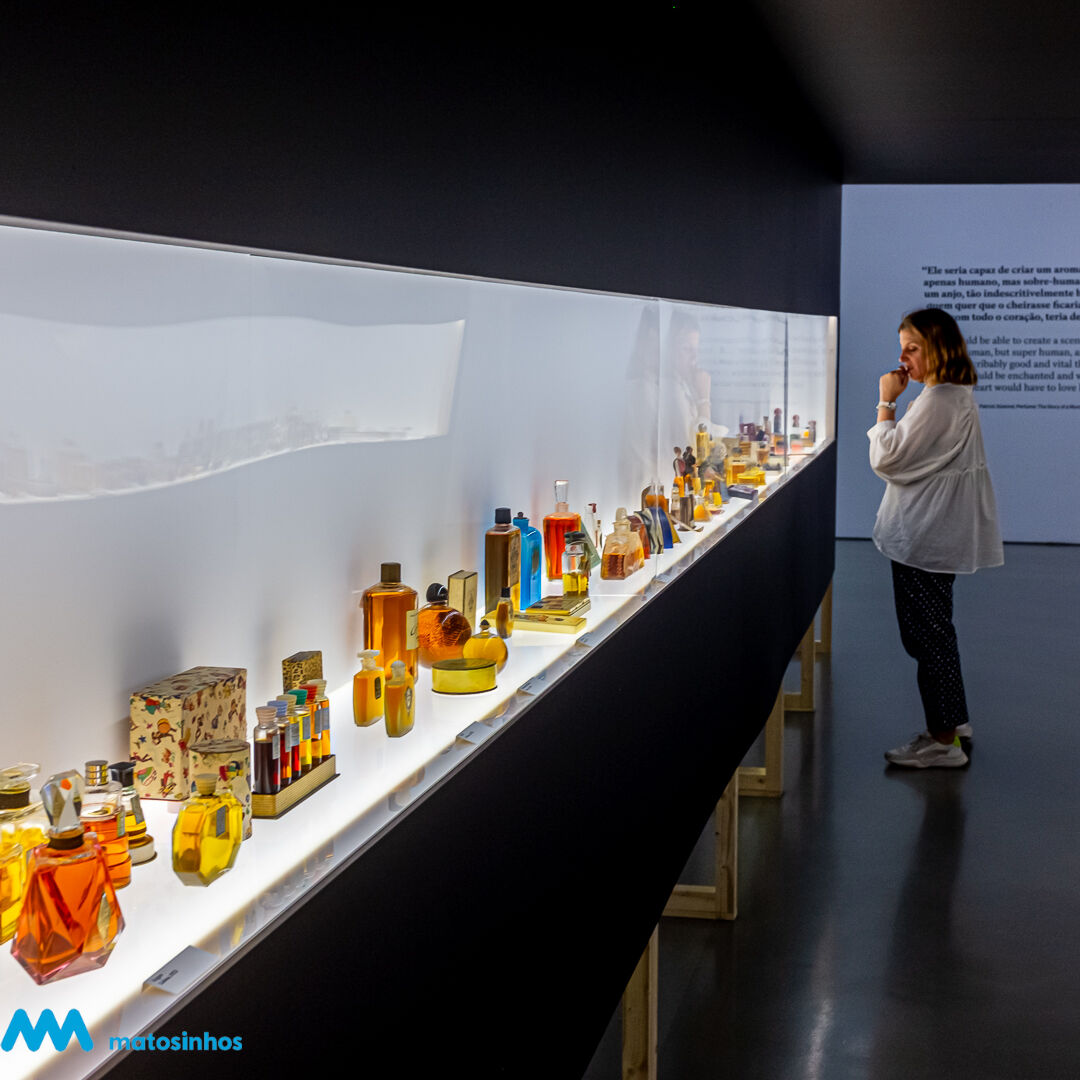
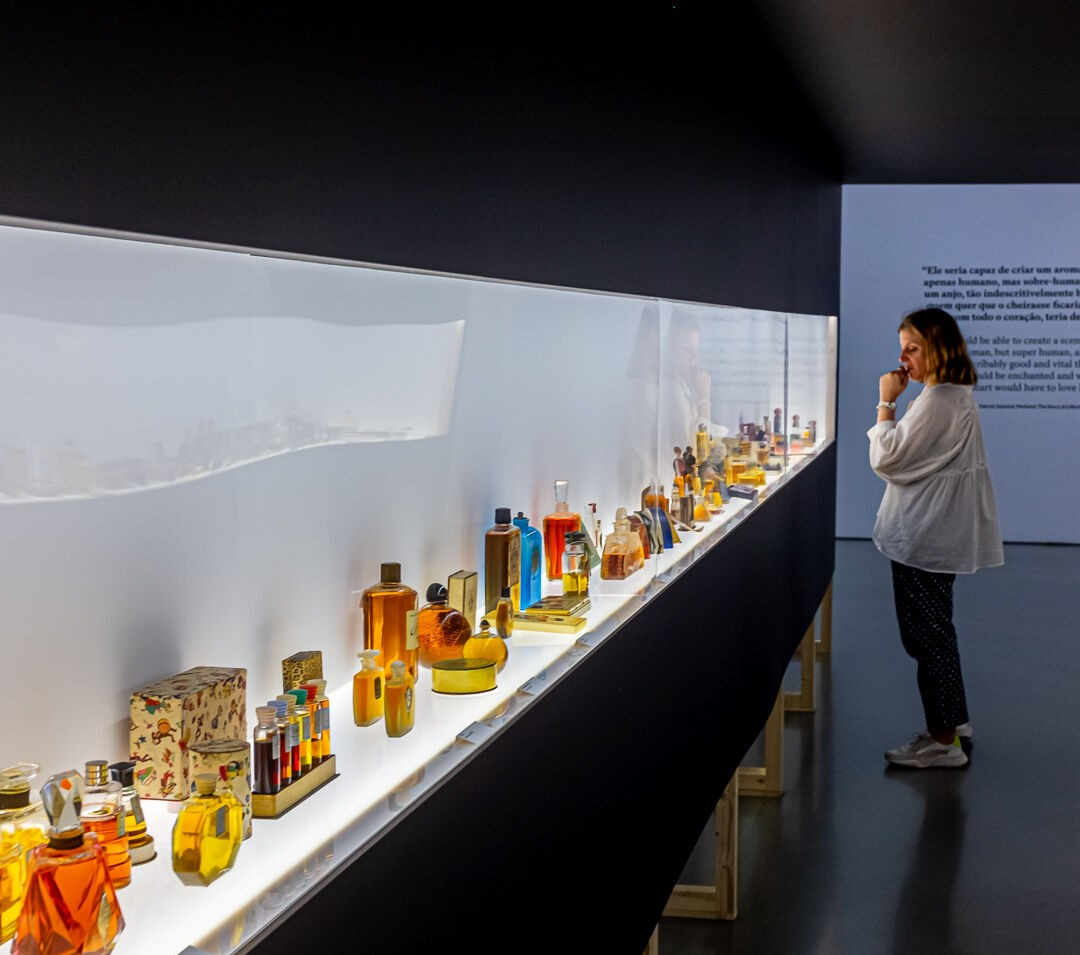
cambios

diff --git a/css/style.css b/css/style.css
@@ -416,13 +416,6 @@ footer {
   text-transform: uppercase; /* convierte a mayúsculas */
 }
 
-
-
-<<<<<<< Updated upstream
-
-
-=======
->>>>>>> Stashed changes
 /* =========================================
    DETALLE DEL PRODUCTO
 ========================================= */
@@ -576,41 +569,24 @@ footer {
     text-decoration: underline;
 }
 
-
-
-
-
-
-
-
-
-
-
-
-
-
-
-
-
-
-
-
 /* =========================================
    CONTACTO
 ========================================= */
+
 /* Banner Contacto */
 .banner-contacto {
   position: relative;
   width: 100%;
-  height: 300px;
-  background: url('img/banner_contacto.jpg') no-repeat center center/cover;
+  height: 400px;
+  background: url('../img/banner_contacto.jpg') no-repeat center center/cover;
   display: flex;
   align-items: center;
   justify-content: center;
 }
 
+/* Recuadro transparente con texto encima */
 .banner-contacto .banner-texto {
-  background: rgba(0,0,0,0.6);
+  background: rgba(0,0,0,0.5); /* negro semitransparente */
   color: #fff;
   padding: 20px 40px;
   border-radius: 10px;
@@ -619,7 +595,7 @@ footer {
 
 .banner-contacto h1 {
   font-size: 2.5em;
-  color: #d4af37;
+  color: #d4af37; /* dorado */
 }
 
 .banner-contacto p {
@@ -630,13 +606,16 @@ footer {
 /* Formulario Contacto */
 .contacto-container {
   max-width: 600px;
-  margin: 40px auto;
+  margin: 40px auto; /* centrado horizontal y margen superior */
   padding: 20px;
+  background: #fff; /* fondo blanco para dar formalidad */
+  border-radius: 10px;
+  box-shadow: 0 4px 12px rgba(0,0,0,0.1); /* sombra elegante */
 }
 
 .contacto-form {
   display: flex;
-  flex-direction: column;
+  flex-direction: column; /* asegura que los campos vayan hacia abajo */
   gap: 15px;
 }
 
@@ -656,12 +635,12 @@ footer {
 
 .contacto-form input:focus,
 .contacto-form textarea:focus {
-  border-color: #d4af37;
+  border-color: #d4af37; /* dorado al enfocar */
   outline: none;
 }
 
 .contacto-form button {
-  background-color: #d4af37;
+  background-color: #d4af37; /* dorado */
   color: #fff;
   border: none;
   padding: 12px;
@@ -672,5 +651,36 @@ footer {
 }
 
 .contacto-form button:hover {
-  background-color: #000;
+  background-color: #000; /* negro al pasar el mouse */
+}
+
+/* =========================================
+   BLOG INDIVIDUAL
+========================================= */
+.blog-page {
+  max-width: 800px;
+  margin: 40px auto;
+  padding: 20px;
+  background: #fff;
+  border-radius: 10px;
+  box-shadow: 0 4px 12px rgba(0,0,0,0.1);
+}
+
+.blog-page h1 {
+  color: #d4af37;
+  margin-bottom: 20px;
+  text-align: center;
+}
+
+.blog-page img {
+  width: 100%;
+  border-radius: 10px;
+  margin-bottom: 20px;
+}
+
+.blog-page p {
+  line-height: 1.8;
+  color: #444;
+  margin-bottom: 15px;
+  text-align: justify;
 }

diff --git a/blog2.html b/blog2.html
@@ -1,0 +1,50 @@
+<!DOCTYPE html>
+<html lang="es">
+<head>
+  <meta charset="UTF-8">
+  <meta name="viewport" content="width=device-width, initial-scale=1.0">
+  <title>Consejos para elegir tu fragancia - AURA Perfumes</title>
+  <link rel="stylesheet" href="css/style.css">
+</head>
+<body>
+  <!-- Menú -->
+  <header class="menu">
+    <div class="logo">
+      <a href="index.html"><img src="img/logo_perfume_sin_fondo.png" alt="Logo"></a>
+    </div>
+    <nav class="nav">
+      <a href="index.html">Inicio</a>
+      <a href="nosotros.html">Quiénes Somos</a>
+      <a href="productos.html">Productos</a>
+      <a href="blogs.html" class="activo">Blogs</a>
+      <a href="contacto.html">Contacto</a>
+      <a href="registro.html">Registro</a>
+      <a href="login.html">Login</a>
+    </nav>
+  </header>
+
+  <!-- Contenido del blog -->
+  <main class="blog-page">
+    <h1>Consejos para elegir tu fragancia</h1>
+    <img src="img/img_blog2.jpg" alt="Consejos para elegir tu fragancia">
+    <p>
+      Elegir un perfume no es solo cuestión de moda, sino de identidad. 
+      Las fragancias florales transmiten frescura y romanticismo, las cítricas energía y vitalidad, 
+      mientras que las amaderadas evocan elegancia y sofisticación.
+    </p>
+    <p>
+      Ten en cuenta la ocasión: perfumes ligeros para el día y fragancias intensas para la noche. 
+      Además, prueba siempre el aroma en tu piel, ya que cada fragancia reacciona distinto según tu pH y temperatura corporal.
+    </p>
+    <p>
+      Recuerda que tu perfume es tu firma invisible: acompaña tus momentos más importantes y deja huella en quienes te rodean.
+    </p>
+  </main>
+
+  <!-- Footer -->
+  <footer>
+    <p>&copy; 2026 AURA Perfumes - Todos los derechos reservados</p>
+  </footer>
+</body>
+</html>
+

diff --git a/blog1.html b/blog1.html
@@ -1,0 +1,49 @@
+<!DOCTYPE html>
+<html lang="es">
+<head>
+  <meta charset="UTF-8">
+  <meta name="viewport" content="width=device-width, initial-scale=1.0">
+  <title>El arte de la fragancia - AURA Perfumes</title>
+  <link rel="stylesheet" href="css/style.css">
+</head>
+<body>
+  <!-- Menú -->
+  <header class="menu">
+    <div class="logo">
+      <a href="index.html"><img src="img/logo_perfume_sin_fondo.png" alt="Logo"></a>
+    </div>
+    <nav class="nav">
+      <a href="index.html">Inicio</a>
+      <a href="nosotros.html">Quiénes Somos</a>
+      <a href="productos.html">Productos</a>
+      <a href="blogs.html" class="activo">Blogs</a>
+      <a href="contacto.html">Contacto</a>
+      <a href="registro.html">Registro</a>
+      <a href="login.html">Login</a>
+    </nav>
+  </header>
+
+  <!-- Contenido del blog -->
+  <main class="blog-page">
+    <h1>El arte de la fragancia</h1>
+    <img src="img/img_blog1.jpg" alt="El arte de la fragancia">
+    <p>
+      Los perfumes son más que un aroma: son una experiencia sensorial que conecta con recuerdos y emociones. 
+      Cada fragancia cuenta una historia y transmite un estilo único.
+    </p>
+    <p>
+      Desde las notas de salida frescas y cítricas, hasta los acordes florales y las notas de fondo amaderadas, 
+      cada perfume es una composición que refleja la personalidad de quien lo lleva.
+    </p>
+    <p>
+      En AURA creemos que elegir una fragancia es como elegir una obra de arte: debe resonar contigo, 
+      con tu estilo de vida y con la imagen que deseas proyectar al mundo.
+    </p>
+  </main>
+
+  <!-- Footer -->
+  <footer>
+    <p>&copy; 2026 AURA Perfumes - Todos los derechos reservados</p>
+  </footer>
+</body>
+</html>
